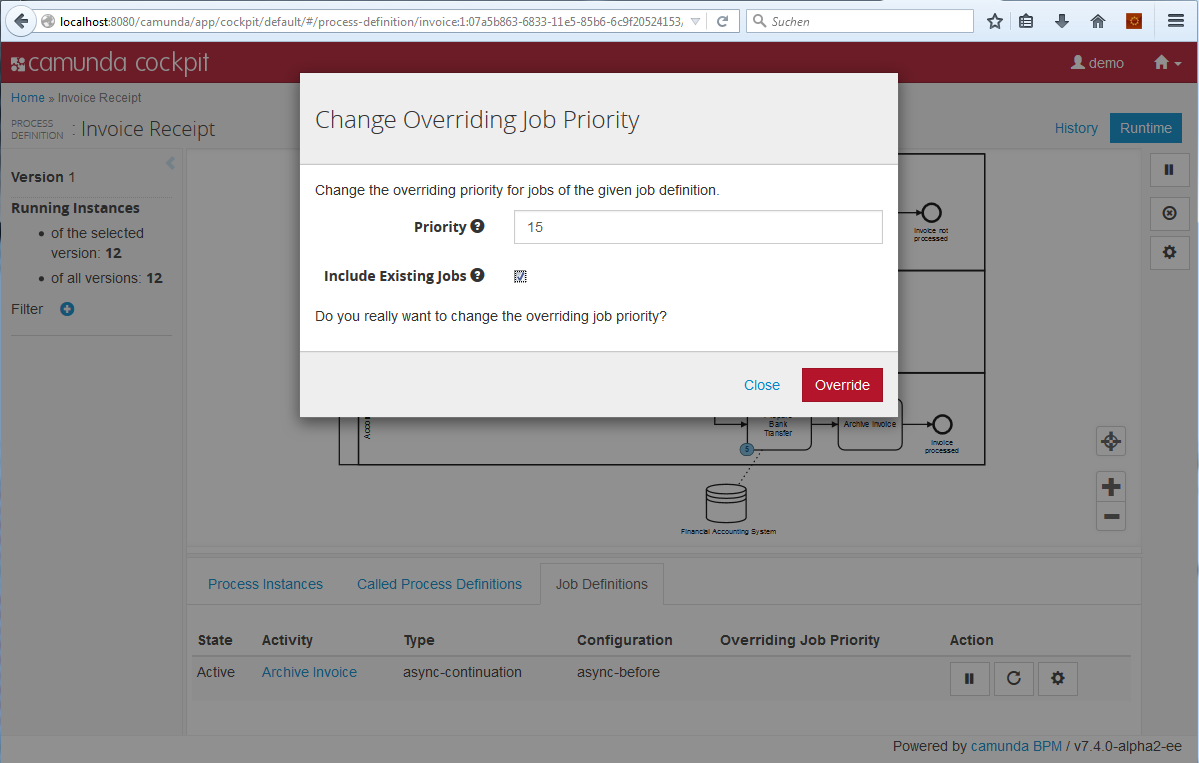
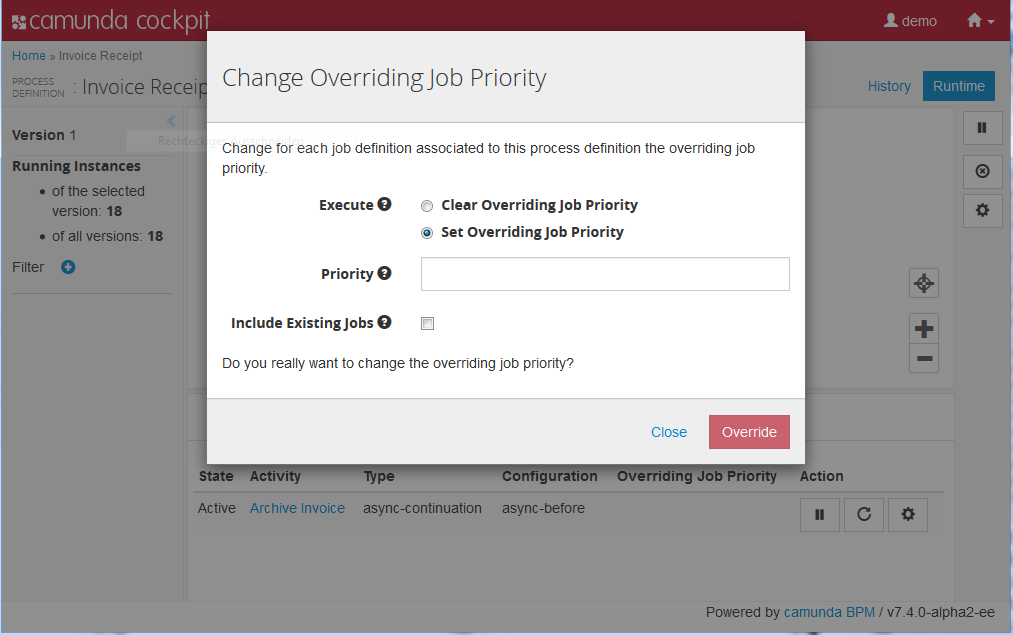
draft improvements

diff --git a/content/post/2015/11/release-74-jobpriorisation.md b/content/post/2015/11/release-74-jobpriorisation.md
@@ -4,23 +4,29 @@ date = "2015-11-15T14:44:10+01:00"
 author = "Ingo Richtsmeier"
 categories = ["Execution"]
 tags = ["JobExecutor", "camunda 7.4", "new feature"]
+draft = true
 +++
 
-As most of you, who had been come in touch with the camunda workflow engine, already noticed: The engine is very fast. Have a look at this [whitepaper](https://network.camunda.org/whitepaper/2) or read about our [scalabilty](https://camunda.org/scalability). 
+If you've used Camunda BPM you might have noticed our engines briefest feature - it's really really fast. Might be an idea to have a look at this [whitepaper](https://network.camunda.org/whitepaper/2) or read about our [scalabilty](https://camunda.org/scalability) if you haven't experienced it for yourself. With the new job priorization feature and the exponential backoff coming with the new Camunda BPM 7.4.0- release you will now be able to improve the speed further by tuning the efficiency of your custom jobs among others.  
 
-In this release we improved the job executor with job priorisation and exponential backoff. If you have many jobs (maybe 50000) which wait to be executed all at the same time, you can dynamically set priorities to the jobs. The priorities can be evaluated from [process variables](https://docs.camunda.org/manual/latest/user-guide/process-engine/the-job-executor/#priorities-at-the-process-level) or you set them in the cockpit.  
+Imagine you have a lot of jobs (maybe 50,000) on a cluster environment which wait to be executed all at the same time. The current behavior of the engine (Camunda BPM 7.3.0) is to acquire all these jobs in parallel and without any order. So it is possible that the engine executes a rather unimportant "historization" job first while a job that is mission critical for your business is left unprioritized. 
+
+To make execution more efficient for your specific environment and to bring order into this situation of high job executor load, Camunda 7.4.0 now enables you to set a priority for each job. This can be done very easy within the Camunda Cockpit.
+
+{{< figure src="cockpit-change-job-priority.PNG" alt="Change Job Priority in Cockpit." title="Change the job priority" caption="Cockpit screenshot">}}
+
+Furthermore with the new release it's also possible to set job priorities dynamically for each process instance via [process variables] (https://docs.camunda.org/manual/latest/user-guide/process-engine/the-job-executor/#priorities-at-the-process-level).
+
+At runtime the Camunda engine then evaluates the priority of each job like shown in this BPMN-diagram: 
 
 {{< figure src="job-executor-priority-precedence.png" alt="Calculate Job Priority" title="Calculate Job Priority" caption="The algorithm">}}
 
-If there are still many jobs with the same priority and same due date left, all the engines in your cluster now try to acquire their jobs to execute not all for the same time but with a short delay (maybe 50 to 150 ms, the exponential backoff). Then they will pick only jobs, that no other engine in the cluster locks exclusively. And the engine will pick the most important jobs to execute them first.
+But what if you have a large number of jobs with the same priority and same due date?
+ 
+As already shown in [Thorben's blogpost](http://blog.camunda.org/post/2015/09/scaling-camunda-bpm-in-cluster-job/) the current way of executing multiple jobs in parallel is not be very efficient. Imagine you have 4 engines in the cluster and 50,000 jobs to be executed exactly at midnight. All the engines start acquiring jobs exactly at midnight, but only one of them locks the first 50 jobs exclusively and starts executing them. The three remaining engines can't get any job, so 3/4 of an acquisition cycle is wasted without executing jobs.
 
-Imagine you have 4 engines in the cluster and 50000 jobs to be executed exactly at midnight. All the engines starts acquiring jobs exactly at midnight, but only one of can lock the first 50 jobs exclusively and start executing them. Three engines can't get any jobs. With exponential backoff they will all start 50 ms later to acquire jobs again. The two engines, that failed to get any jobs to execute will start 150 ms later and the last one will wait 200 ms before querying for jobs again and it will get jobs, that are not exclusively locked by any other engine.
+To handle this inefficient behavior, the new Camunda BPM 7.4.0-release will provide a completely new approach, the *exponential backoff*. The engines in your cluster will no longer try to acquire jobs in parallel, but now they will try it sequentially with a short delay (maybe 50 to 150 ms, the backoff). In consequence each node will only pick jobs that have no exclusive locks of other engines. So from now on, the acquiring jobs have only minimal overlap (if any) and all the jobs can be executed as quickly as possible.
 
-So from now on, the overlapping of acquiring jobs is minimal (if any) and all the jobs can be executed as fast as possible.
+For further details please have a look at the [reference](https://docs.camunda.org/manual/latest/reference/deployment-descriptors/tags/job-executor/) or [user guide](https://docs.camunda.org/manual/latest/user-guide/process-engine/the-job-executor/) to find out how to configure your engine in very heavy load scenarios.
 
-Read this [blogpost from Thorben](http://blog.camunda.org/post/2015/09/scaling-camunda-bpm-in-cluster-job/) about his measurements in a big cluster scenario.
-
-Have a look at the [reference](https://docs.camunda.org/manual/latest/reference/deployment-descriptors/tags/job-executor/) or [user guide](https://docs.camunda.org/manual/latest/user-guide/process-engine/the-job-executor/)  to find out how to configure your engine in very heavy load scenarios.
-
-{{< figure src="cockpit-change-job-priority.PNG" alt="Change Job Priority in Cockpit." title="Change the job priority" caption="Cockpit screenshot">}}
 
